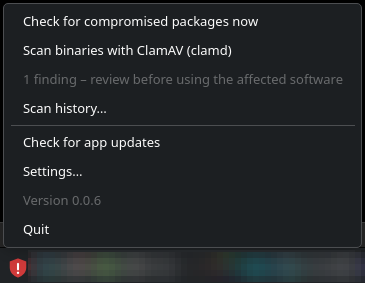
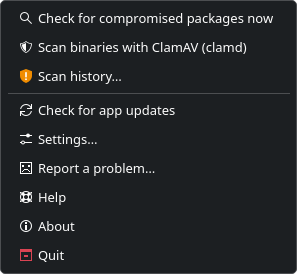
Docs: new screenshots of the tray menu and the findings window, with example data only

diff --git a/README.md b/README.md
@@ -42,7 +42,7 @@ Note: the scanners are third-party code that is downloaded from GitHub and run a
 | **Tray menu**<br>![Tray menu](docs/screenshots/tray-menu.png) | **Notification**<br>![Notification when something is found](docs/screenshots/notification.png) |
 | **Findings window**<br>![Findings window](docs/screenshots/findings.png) | **With details**<br>![Findings window with details](docs/screenshots/findings-details.png) |
 
-_Screenshots show version 0.0.6; newer versions differ in details: per-entry Open files / Ignore buttons, a shorter tray menu (no version or last-result lines), left click opens the scan history, and per-status icons in the history and the tray._
+_The tray menu and the findings window show made-up example data (KDE Breeze Dark, without window title bars); the notification is from an earlier version and looks like your desktop's notifications._
 
 ## Install (CachyOS / Arch)
 

diff --git a/docs/findings-window.md b/docs/findings-window.md
@@ -9,10 +9,10 @@ package.
 > 🧠 **A finding is a hint, not a verdict.** A blocklist match means "this package/version is on a list of compromised
 > software". A heuristic finding (`aur-scan`) means "this looks suspicious". Check before you act.
 
-![Findings window (screenshot of version 0.0.6)](screenshots/findings.png)
-![Findings window with details (screenshot of version 0.0.6)](screenshots/findings-details.png)
+![Findings window with two example findings](screenshots/findings.png)
+![The same window with the details shown](screenshots/findings-details.png)
 
-*(The screenshots are from an older version; newer versions have the per-entry buttons described below.)*
+*(Made-up example packages; rendered with the KDE Breeze Dark theme, without the window title bar.)*
 
 ## What you see
 

diff --git a/docs/tray-and-notifications.md b/docs/tray-and-notifications.md
@@ -31,6 +31,8 @@ Good to know:
 
 ## The menu
 
+![The tray menu](screenshots/tray-menu.png)
+
 Every entry has an icon from your desktop's icon theme (so it matches the rest of your desktop). **Scan history…** shows the shield of the last scan result instead.
 
 ```
